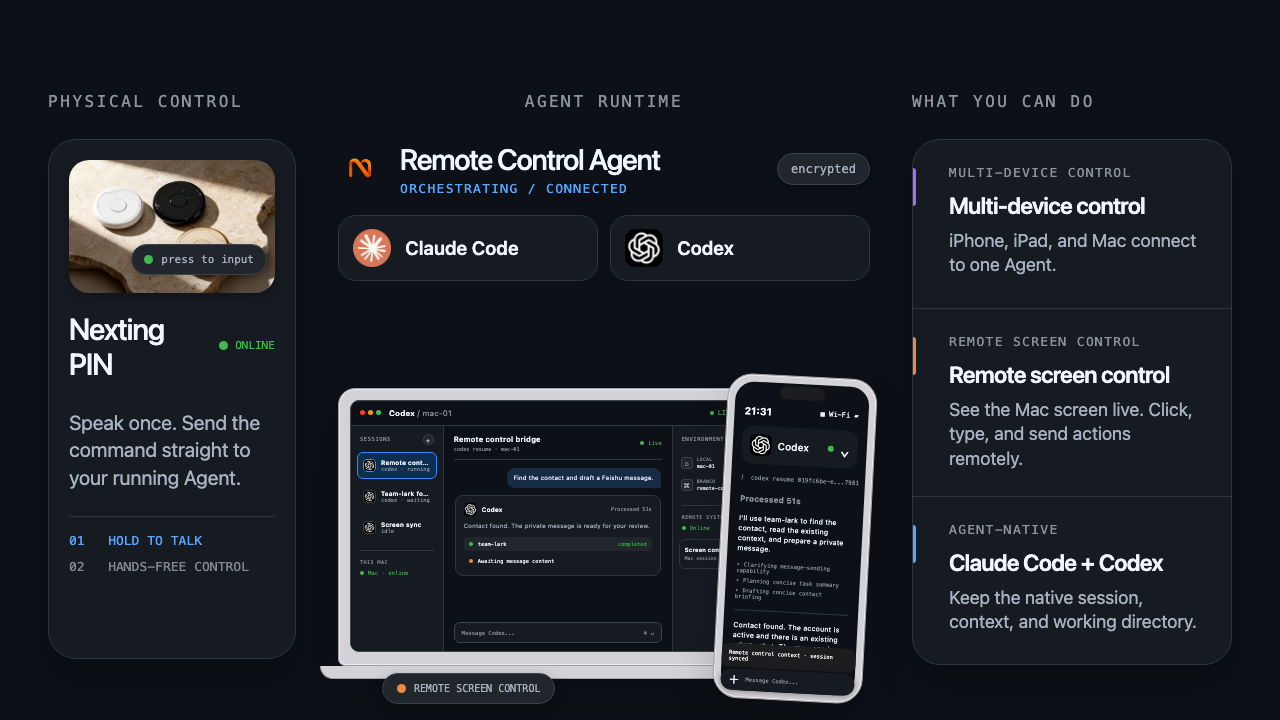
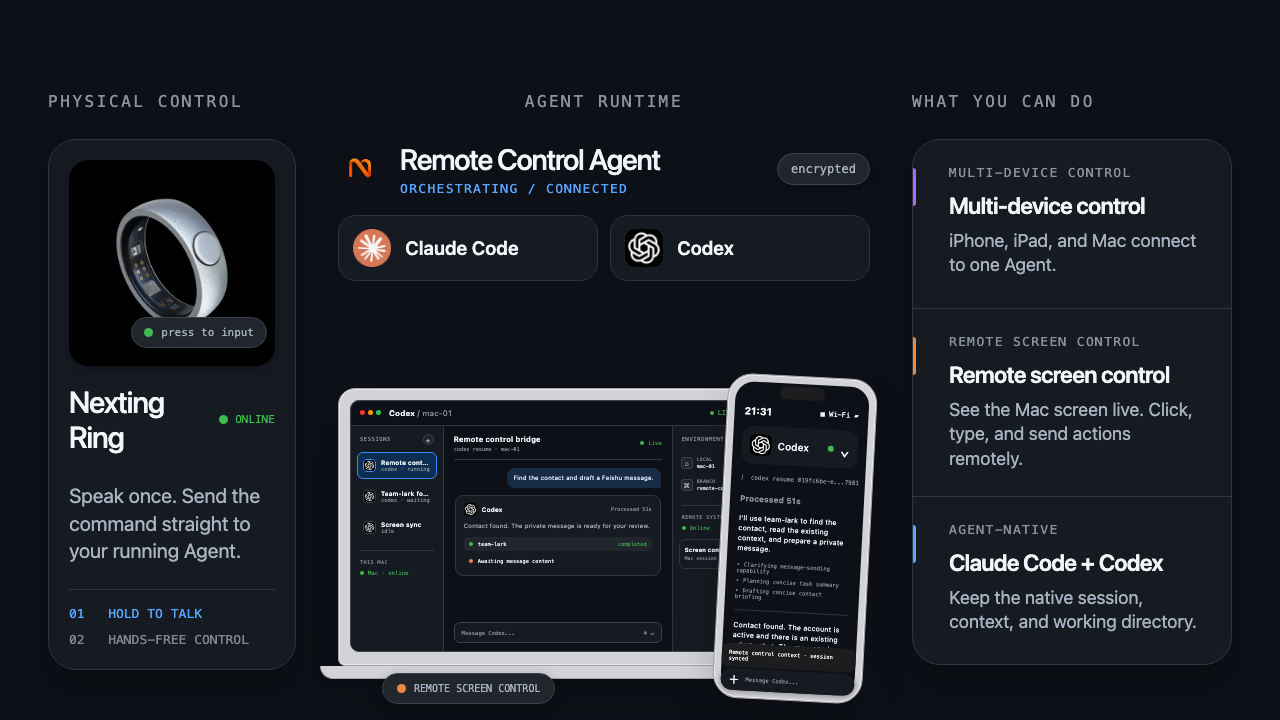
docs: show Nexting Ring in hero diagram

Changed region(s): [[0.0312, 0.2139, 0.2188, 0.5194], [0.0312, 0.55, 0.2188, 0.7944], [0.0625, 0.825, 0.1875, 0.9167]]

diff --git a/README.md b/README.md
@@ -22,7 +22,7 @@
 ---
 
 <p align="center">
-  <img src="public/remote-control-agent-dark.png" alt="Nexting Remote Control Agent — Mac, phone, and PIN control" width="100%">
+  <img src="public/remote-control-agent-dark.png" alt="Nexting Remote Control Agent — Mac, phone, and Ring control" width="100%">
 </p>
 
 You already have powerful agents — Claude Code, Codex, OpenClaw. They're locked to your desk. **Nexting is the channel between you and them**: a terminal you wear, so you can reach your own agent without pulling out your phone or opening an app. Tap it, say one sentence, and the task is **dispatched to your own agent**. It runs in the background and the result comes back when it's done.
@@ -42,14 +42,14 @@ You speak → Nexting PIN (BLE) → iPhone App (STT) → Cloud → your own agen
 
 ## What Makes Nexting Different
 
-| | |
-|---|---|
-| **Dispatch, not chat** | Fire-and-forget: say it once, your agent runs it in the background. Not Q&A. |
-| **Your own agent** | Drives the agents you already run — Claude Code, Codex, OpenClaw. Not a locked-in model. |
-| **Private by design** | Claude Code & Codex support optional end-to-end encryption — turn it on and Nexting relays ciphertext, not your session. |
-| **Delivers while you're offline** | Phone locked, on the move? The agent still finishes the job and pushes the result back. |
-| **Remote-control your agent** | Attach to a Claude Code or Codex session on your Mac or Windows PC and drive it from your pocket — live. |
-| **Deep iPhone integration** | Calendar, Reminders, Contacts, Health, HomeKit — all by voice. |
+|                                   |                                                                                                                          |
+| --------------------------------- | ------------------------------------------------------------------------------------------------------------------------ |
+| **Dispatch, not chat**            | Fire-and-forget: say it once, your agent runs it in the background. Not Q&A.                                             |
+| **Your own agent**                | Drives the agents you already run — Claude Code, Codex, OpenClaw. Not a locked-in model.                                 |
+| **Private by design**             | Claude Code & Codex support optional end-to-end encryption — turn it on and Nexting relays ciphertext, not your session. |
+| **Delivers while you're offline** | Phone locked, on the move? The agent still finishes the job and pushes the result back.                                  |
+| **Remote-control your agent**     | Attach to a Claude Code or Codex session on your Mac or Windows PC and drive it from your pocket — live.                 |
+| **Deep iPhone integration**       | Calendar, Reminders, Contacts, Health, HomeKit — all by voice.                                                           |
 
 Nexting isn't another voice assistant — it's the pocket control surface for your agent team.
 
@@ -65,13 +65,13 @@ Nexting isn't another voice assistant — it's the pocket control surface for yo
 
 Nexting is a terminal, not a model. Connect the agent you already run:
 
-| Mode | What It Is | Cost |
-|------|-----------|------|
-| **Claude Code** | Attach to a [Claude Code](https://claude.com/product/claude-code) session on your Mac or Windows PC and drive it from your PIN — live. | Free |
-| **Codex** | Attach to an OpenAI Codex CLI session on your Mac or Windows PC and drive it from your PIN — live. | Free |
-| **MyOpenClaw** | Run your own [OpenClaw](https://github.com/openclaw/openclaw) instance. We handle the relay. | Free |
-| **MyHermes** | Any OpenAI-compatible local AI — Hermes Agent, Ollama, vLLM, LM Studio. | Free |
-| **Nexting Pro** | Managed agent in the cloud. Latest Claude, GPT, and Gemini models, zero setup. | $29/mo or $279/yr |
+| Mode            | What It Is                                                                                                                             | Cost              |
+| --------------- | -------------------------------------------------------------------------------------------------------------------------------------- | ----------------- |
+| **Claude Code** | Attach to a [Claude Code](https://claude.com/product/claude-code) session on your Mac or Windows PC and drive it from your PIN — live. | Free              |
+| **Codex**       | Attach to an OpenAI Codex CLI session on your Mac or Windows PC and drive it from your PIN — live.                                     | Free              |
+| **MyOpenClaw**  | Run your own [OpenClaw](https://github.com/openclaw/openclaw) instance. We handle the relay.                                           | Free              |
+| **MyHermes**    | Any OpenAI-compatible local AI — Hermes Agent, Ollama, vLLM, LM Studio.                                                                | Free              |
+| **Nexting Pro** | Managed agent in the cloud. Latest Claude, GPT, and Gemini models, zero setup.                                                         | $29/mo or $279/yr |
 
 Buy the hardware once. Dispatch to whichever agent is yours. Expand your mode below for setup — each takes about a minute.
 
@@ -162,15 +162,15 @@ Full walkthrough for every mode — pairing, remote control, starting sessions b
 
 Purpose-built for voice-first interaction. No screen — by design.
 
-| Spec | Detail |
-|------|--------|
-| MCU | Seeed XIAO nRF52840 Sense (ARM Cortex-M4 @ 64MHz) |
-| Microphone | PDM MEMS (built into XIAO Sense) |
-| Audio | Opus codec over BLE 5.0, I2S speaker (MAX98357A) |
-| Feedback | RGB LED + speaker (no screen) |
-| Battery | 3.7V LiPo, USB-C charging (onboard BQ25101) |
-| Firmware | Zephyr RTOS v2.2.0 ([source + UF2](hardware-opensource/firmware/pinclaw_zephyr/)) |
-| Interaction | Single-button push-to-talk |
+| Spec        | Detail                                                                            |
+| ----------- | --------------------------------------------------------------------------------- |
+| MCU         | Seeed XIAO nRF52840 Sense (ARM Cortex-M4 @ 64MHz)                                 |
+| Microphone  | PDM MEMS (built into XIAO Sense)                                                  |
+| Audio       | Opus codec over BLE 5.0, I2S speaker (MAX98357A)                                  |
+| Feedback    | RGB LED + speaker (no screen)                                                     |
+| Battery     | 3.7V LiPo, USB-C charging (onboard BQ25101)                                       |
+| Firmware    | Zephyr RTOS v2.2.0 ([source + UF2](hardware-opensource/firmware/pinclaw_zephyr/)) |
+| Interaction | Single-button push-to-talk                                                        |
 
 The [`hardware-opensource/`](hardware-opensource/) directory is a complete **Co-Builder Edition**: firmware source, 3D-printable enclosure files, and a schematic PDF — everything you need to build a Nexting PIN yourself. Flash the UF2 binary via drag-and-drop — no programmer needed.
 
@@ -216,12 +216,12 @@ nexting/
 
 ## Links
 
-| | |
-|---|---|
-| Website | [nexting.ai](https://nexting.ai) |
-| iOS App | [App Store](https://apps.apple.com/us/app/nexting-wearable-ai-agent/id6760344343) |
-| Docs | [nexting.ai/doc](https://nexting.ai/doc) |
-| Get a PIN | [nexting.ai/reserve](https://nexting.ai/reserve) |
+|           |                                                                                   |
+| --------- | --------------------------------------------------------------------------------- |
+| Website   | [nexting.ai](https://nexting.ai)                                                  |
+| iOS App   | [App Store](https://apps.apple.com/us/app/nexting-wearable-ai-agent/id6760344343) |
+| Docs      | [nexting.ai/doc](https://nexting.ai/doc)                                          |
+| Get a PIN | [nexting.ai/reserve](https://nexting.ai/reserve)                                  |
 
 ## Contributing
 
